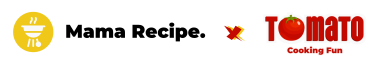
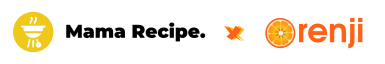
🔷 update documentation

diff --git a/README.md b/README.md
@@ -1,21 +1,13 @@
-# Backend Recipes Apps (Mama Recipe and Tomato )
+# Mama Recipe x Orenji -  Backend
 
 ![badge](./docs/Pictures/badge-mama-recipe-x-tomato.png)  
 This is a repository for Mama Recipe and Tomato, both are same application while Tomato is a fork from Mama Recipe Project. This Project is about a recipe applicaion that has a service like adding,save,favorite,like recipe, and other.
 
+Developer :
+
+> ![developer](https://contrib.rocks/image?repo=Team-A-Pijarcamp-Batch-15/receipes-web-be&anon=false)
+
 Check this link to view the Mama Recipe Web : <https://recipes-web-fe.vercel.app/>
-
-## Table of content
-
-- [Backend Recipes Apps (Mama Recipe and Tomato )](#backend-recipes-apps-mama-recipe-and-tomato-)
-	- [Table of content](#table-of-content)
-	- [How to run](#how-to-run)
-	- [Environment](#environment)
-	- [Contributor](#contributor)
-	- [Screenshoots](#screenshoots)
-		- [Home](#home)
-		- [Recipe Detail](#recipe-detail)
-		- [Recipe Login Register](#recipe-login-register)
 
 ## How to run  
 
@@ -35,6 +27,7 @@ Use environment name ``.env.local`` for local development.
 Fill related configuration below before running the app.
 
 ```bash
+
 #
 # ADD APP Environment Setting
 # Fill NODE_ENV if you want to use cloud database in local
@@ -60,7 +53,7 @@ APP_SECRET_TOKEN=
 FE_URI=
 
 #
-# The Idea to make different DB config is to make seamlesly switching db config on local development.
+# The Idea to make different DB config is to make seamlesly switching between db config on local and development.
 # If you want to use cloud database in local fill NODE_ENV with production or leave it empty.
 #
 
@@ -83,13 +76,13 @@ CLOUDINARY_CLOUD_NAME=
 CLOUDINARY_API_KEY=
 CLOUDINARY_API_SECRET=
 
+# SMTP Service 
+# This app using gmail as mail service provider
+# need to modify the ./src/Utils/smtp.js if you want to change mail service provider
+GOOGLE_EMAIL=
+GOOGLE_APP_PASSWORD=
+
 ```
-
-## Contributor
-
-- @arsyad12
-- @rizqikazukun
-- @muhwanto0123
 
 ## Screenshoots
 
